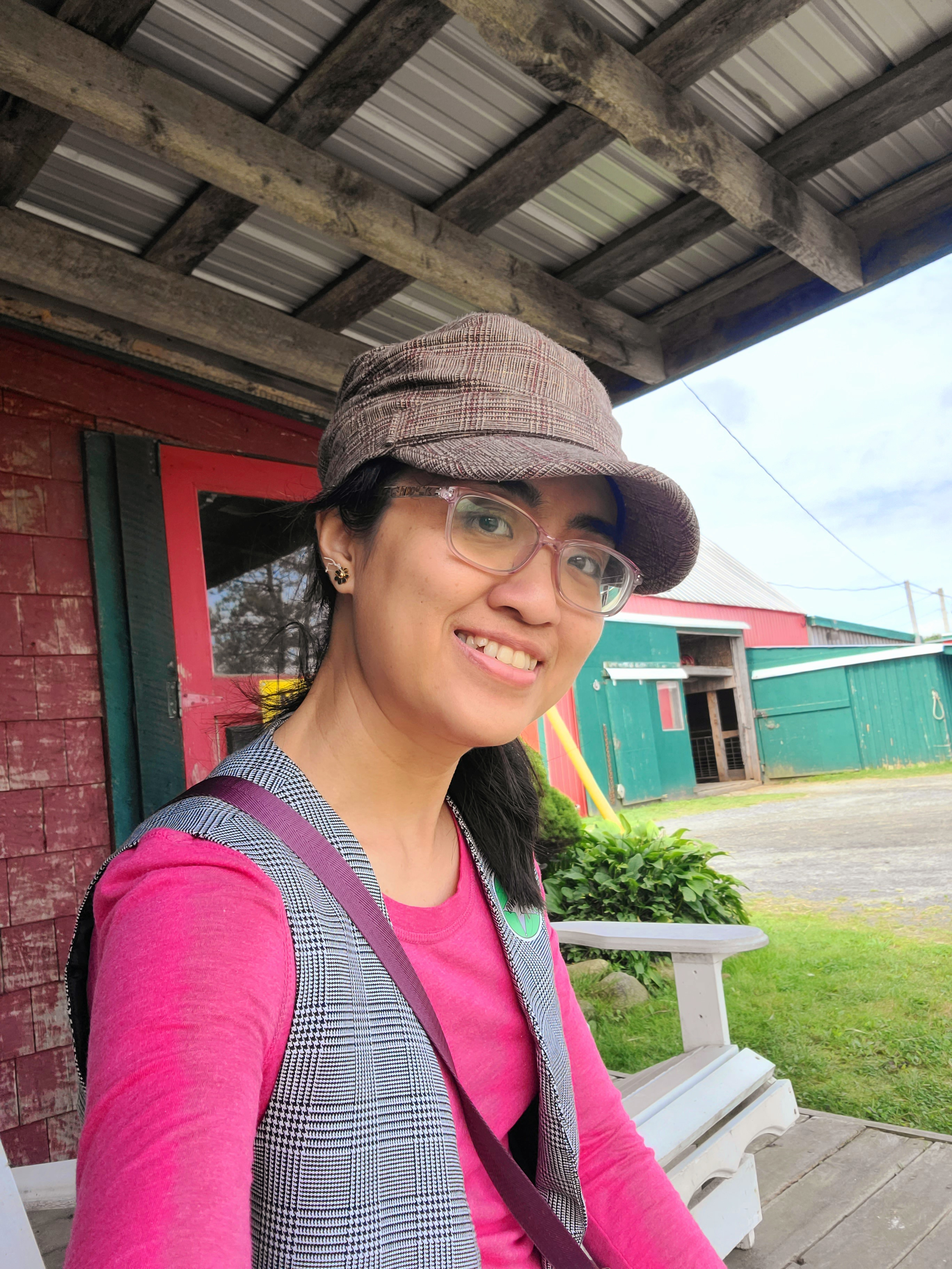
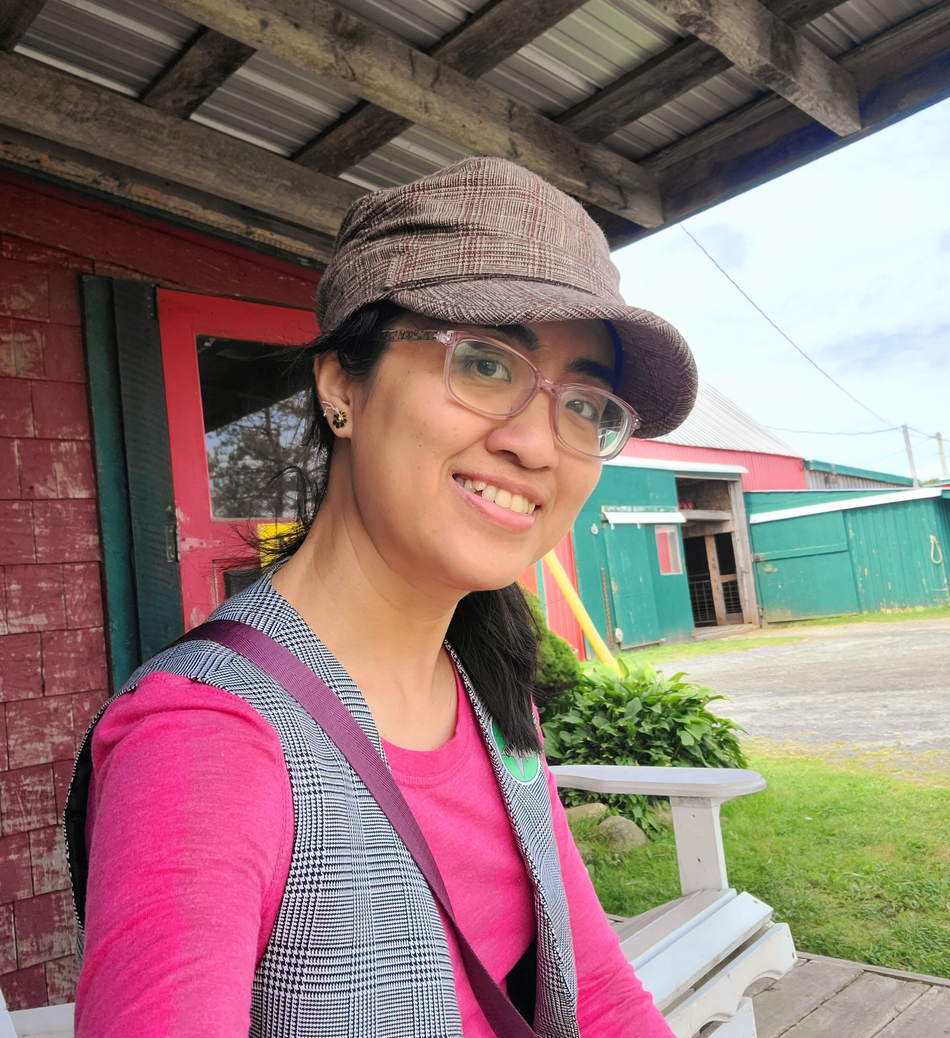
fix the blob profile pic

diff --git a/index.html b/index.html
@@ -42,7 +42,7 @@
   </nav>
   <section id="profile">
     <div class="section__pic-container">
-      <div class="box"></div>
+      <img id="my-profile-pic" src="./assets/profile-pic.jpg" alt="Anne Nguyen profile picture" />
     </div>
     <div class="section__text">
       <p class="section__text__p1">Hello, I'm</p>
@@ -69,7 +69,7 @@
     <h1 class="title">About Me</h1>
     <div class="section-container hidden-fade-in">
       <div class="section__pic-container">
-        <img src="./assets/about-pic.jpg" alt="Profile picture" class="about-pic" />
+        <img src="./assets/about-pic.jpg" alt="About Me picture" class="about-pic" />
       </div>
       <div class="about-details-container">
         <div class="about-containers">

diff --git a/style.css b/style.css
@@ -510,13 +510,8 @@ footer p {
 /* TRANSITION EFFECTS - END */
 
 /* ANIMATED BLOB for profile-pic - START */
-.box {
-  background: url('./assets/profile-pic.jpg');
-  -webkit-background-size: cover;
-  background-size: cover;
-  background-position: center center;
-  height: 400px;
-  width: 400px;
+#my-profile-pic {
+  
   box-shadow: 0 20px 5px rgba(0,0,0,0.2);
   animation: animate 5s ease-in-out infinite;
   transition: all 1s ease-in-out;
